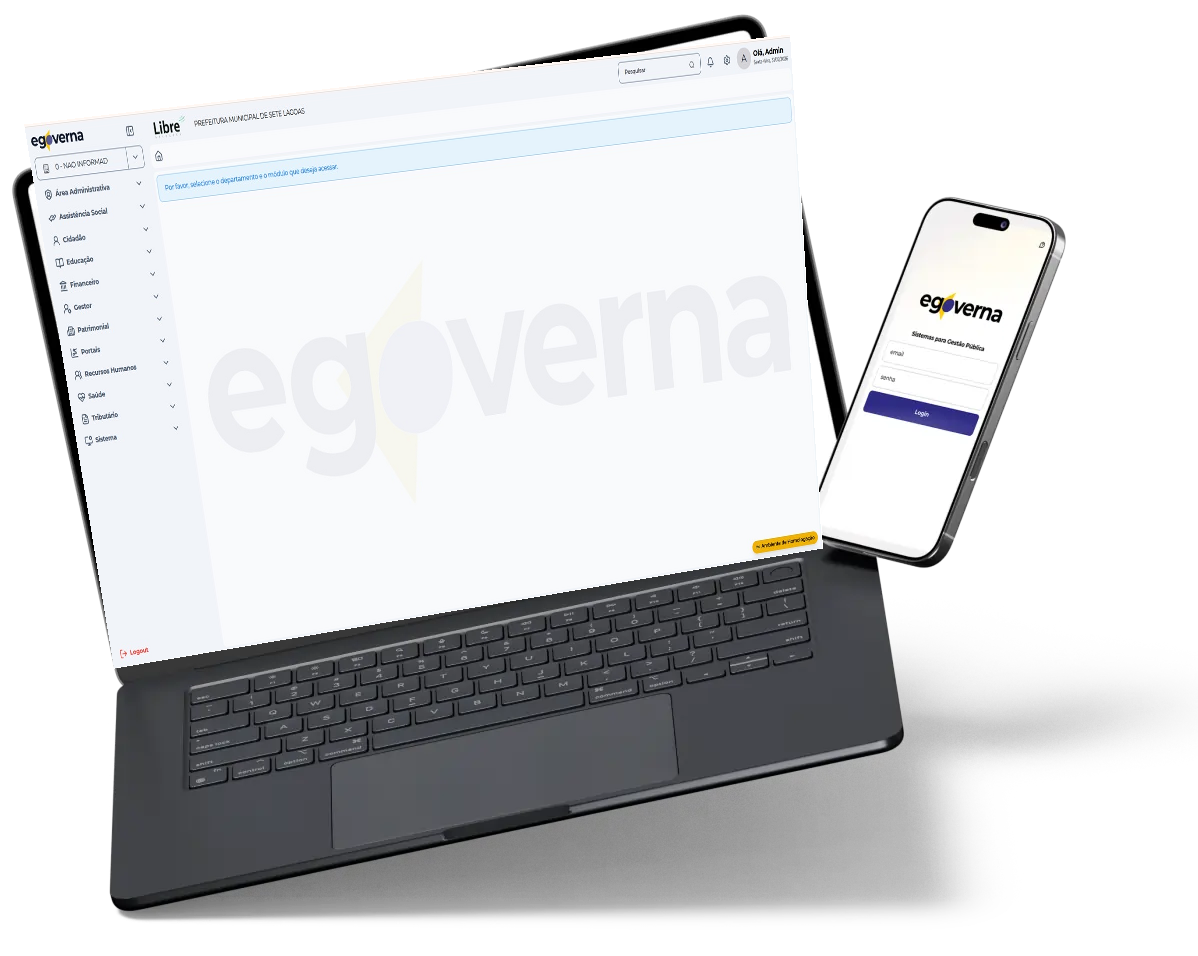
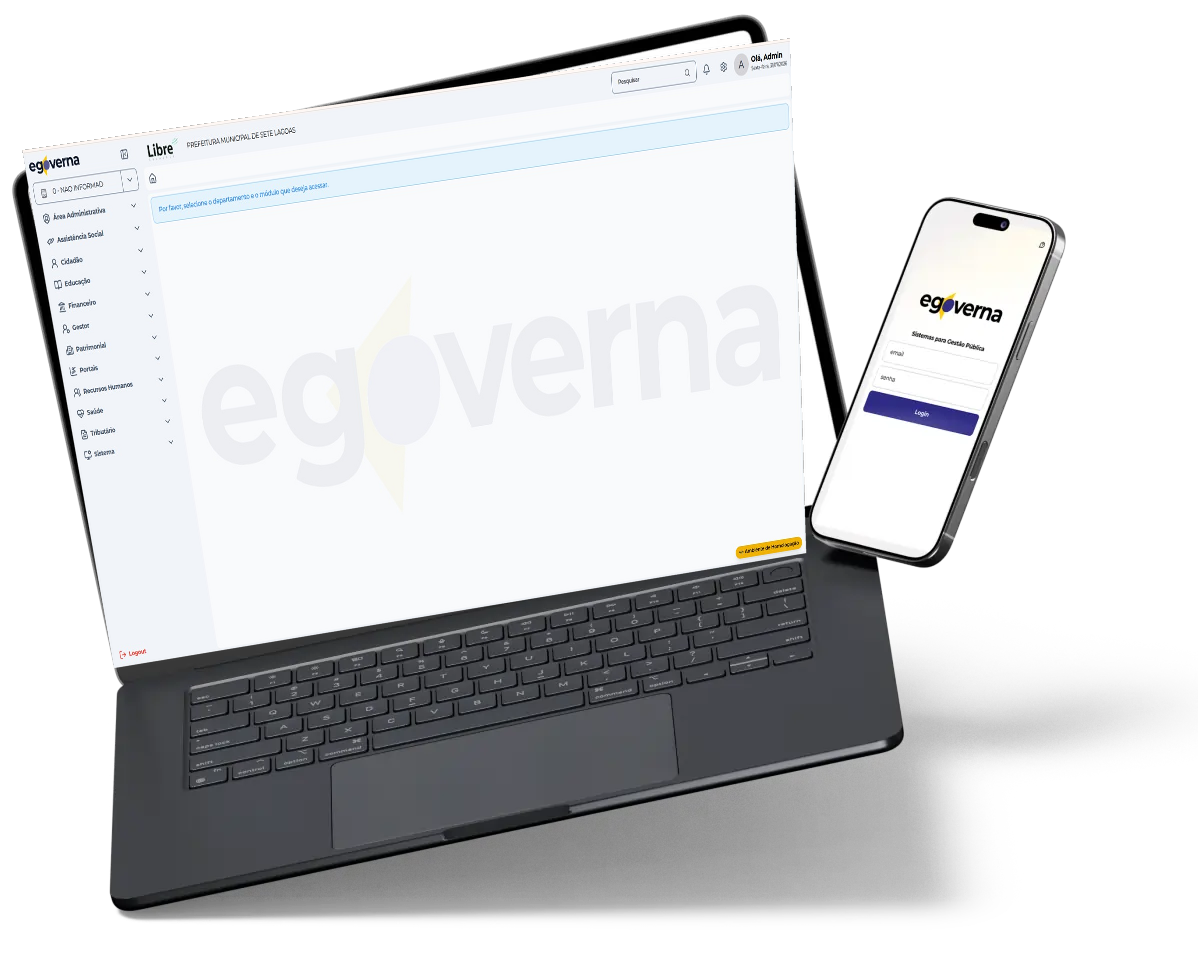
Corrige encaixe do mockup, quebra de linha e ícone do eGoverna
- mockup da plataforma: cantos da tela do notebook remedidos, de modo
  que o print do sistema preencha a tela inteira na perspectiva certa,
  sem sobra da interface anterior
- diferenciais: "Migração de dados com segurança" passa a "Migração
  segura de dados", o único item que quebrava em duas linhas
- ícone do eGoverna: refeito a partir da geometria e das cores medidas
  nos ícones publicados, com o wordmark oficial da marca

diff --git a/lib/site.ts b/lib/site.ts
@@ -298,7 +298,7 @@ export const platformHighlights = [
   "Soluções escaláveis",
   "Atualizações contínuas",
   "Integração entre módulos",
-  "Migração de dados com segurança",
+  "Migração segura de dados",
 ] as const;
 
 /* -------------------------------------------------------------------------- */
